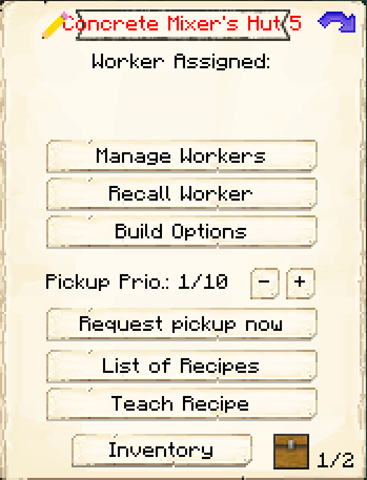
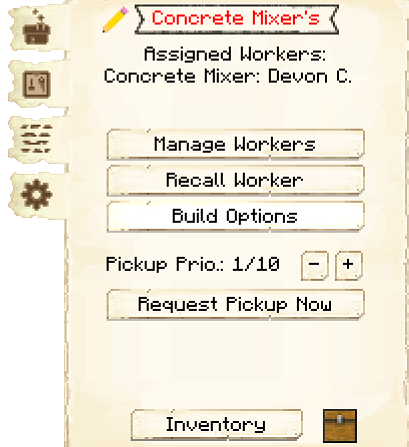
Concrete Mixer Update

diff --git a/source/buildings/concretemixer.md b/source/buildings/concretemixer.md
@@ -26,7 +26,7 @@ The Concrete Mixer will craft all types of concrete powder and place them in flo
 
 ## Concrete Mixer's Hut GUI
 
-When accessing the Concrete Mixer's Hut by right-clicking on it, you will see a GUI with different options:
+When accessing the Concrete Mixer's Hut by right-clicking on it, you will see a GUI with different options.   You start on the main tab:
 
 <br>
 <div class="row">
@@ -42,15 +42,39 @@ When accessing the Concrete Mixer's Hut by right-clicking on it, you will see a 
     </ul>
   </div>
 </div>  
-  <br>
   
-The 2nd page of the GUI shows what task(s) the Concrete Mixer currently has.
+<br>
 <div class="row">
-  <div class="col-sm-12 col-md">
-    <img src="../../assets/images/gui/craftertasklist.png" class="img-fluid mx-auto" alt="Concrete Mixer's Hut GUI 2">
-  </div>
-  <div class="col-sm-12 col-md">
-    <br>
-  </div>
+    <div class="col-sm-12 col-md">
+      <img src="../../assets/images/gui/concretemixergui2.png" class="img-fluid mx-auto" alt="Concrete Mixer's Hut GUI2">
+    </div>
+    <div class="col-sm-12 col-md">
+    <p>The second tab of the GUI is <strong>List of Recipes</strong>. Here you can see all the crafting recipes this hut knows.  The arrows allow you to move them up or down in priority.  You are also able to disable specific recipes.</p>
+    </div>
 </div>
-<br> <br>
+  
+<br>
+<div class="row">
+    <div class="col-sm-12 col-md">
+      <img src="../../assets/images/gui/concretemixergui3.png" class="img-fluid mx-auto" alt="Concrete Mixer's Hut GUI3">
+    </div>
+    <div class="col-sm-12 col-md">
+    <p>The third tab of the GUI is <strong>Tasks</strong>.  This tab shows you any requests the hut is working on, and where it is going.</p>
+    </div>
+</div>
+  
+<br>
+<div class="row">
+    <div class="col-sm-12 col-md">
+      <img src="../../assets/images/gui/concretemixergui4.png" class="img-fluid mx-auto" alt="Concrete Mixer's Hut GUI4">
+    </div>
+    <div class="col-sm-12 col-md">
+    <p>The fourth tab of the GUI is <strong>Settings</strong>.</p>
+      <li><strong>Recipe Mode:</strong>  This is unlocked by researching Warehouse Master in the University.  This allows you to change the order the hut chooses when it knows more than one recipe for an item. 
+        <ul>
+          <li><strong>Priority:</strong>  This is the default setting.  The hut will try to use the recipe that is higher up in their recipe list first.</li>
+          <li><strong>Warehouse Stock:</strong> The hut will look in the warehouse first to see what resource you have more of before deciding what recipe it will use.</li>
+        </ul>
+     </li>
+    </div>
+</div>
